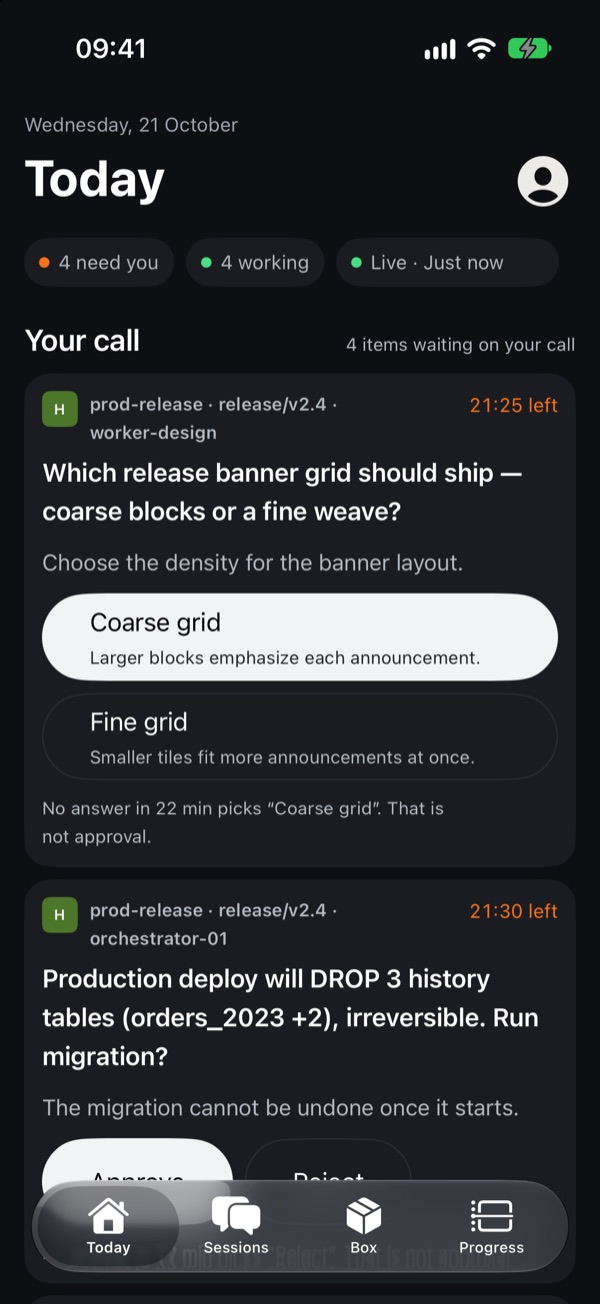
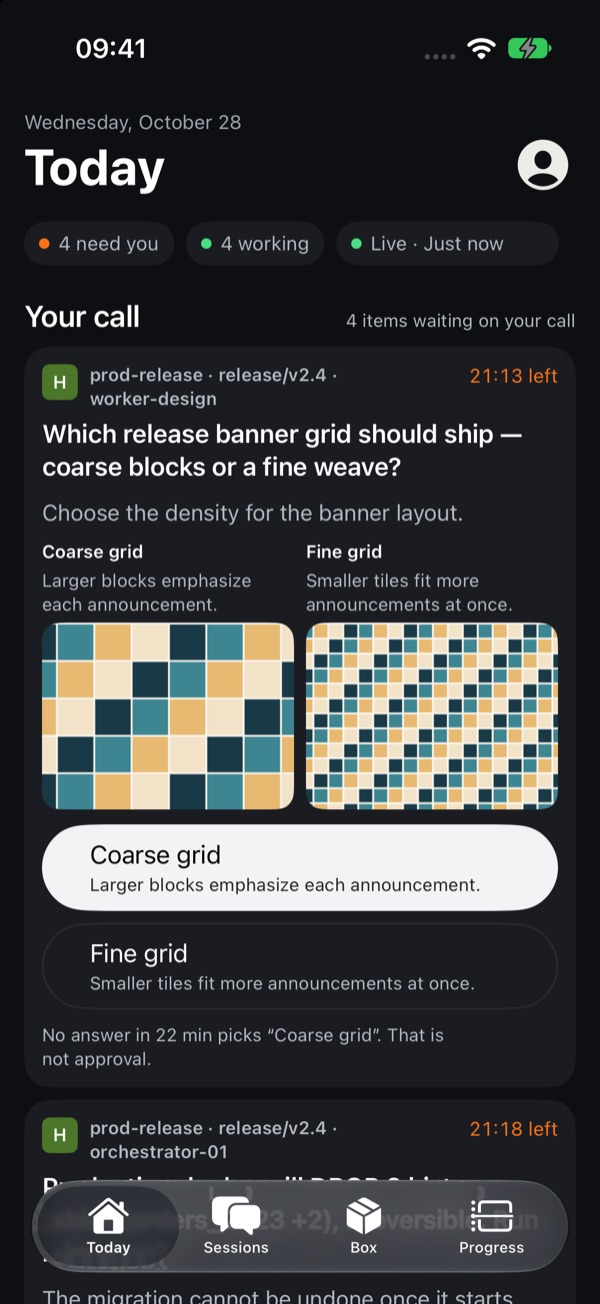
fix(site): anonymize attribution and show native decisions

diff --git a/site/zh/index.html b/site/zh/index.html
@@ -48,7 +48,9 @@
           <div class="phone">
             <picture>
               <source srcset="/assets/shots/home-dark.jpg" media="(prefers-color-scheme: dark)">
-              <img src="/assets/shots/home-light.jpg" width="600" height="1304" fetchpriority="high" alt="iPhone 上的 HiBoss“今天”页面：有四件事等你处理，一个智能体在问该上线哪种横幅网格，附两个选项和倒计时。">
+              <img src="/assets/shots/home-light.jpg" width="600" height="1304"
+                  fetchpriority="high"
+                  alt="iPhone 今日决策：两种网格图片、每项描述，以及默认选择 Coarse grid 的超时提示。">
             </picture>
           </div>
         </div>
@@ -66,7 +68,7 @@
         <article class="feature">
           <div>
             <h3>点一下就能做决定</h3>
-            <p class="muted">智能体提问时带上选项、背景和可选的截止时间。你直接在卡片上回答，最先给出的答案在所有设备上同时生效。</p>
+            <p class="muted">智能体提问时可以为选项附上图片和描述，并指定默认项与截止时间。你直接在卡片上比较、回答，最先给出的答案在所有设备上同时生效。</p>
             <ul>
               <li>每个问题都留在所属会话里，项目、分支、机器一目了然。</li>
               <li>到点没回复时可以自动选默认项，让工作继续；HiBoss 会标明这是默认项，绝不算你的批准。</li>
@@ -77,7 +79,9 @@
             <div class="phone small">
               <picture>
                 <source srcset="/assets/shots/session-dark.jpg" media="(prefers-color-scheme: dark)">
-                <img src="/assets/shots/session-light.jpg" width="600" height="1304" loading="lazy" alt="prod-release 会话记录：智能体待回答的问题、回答按钮和回复输入框。">
+                <img src="/assets/shots/session-light.jpg" width="600" height="1304"
+                  loading="lazy"
+                  alt="会话中的待决策消息：两种网格的图片、描述，以及默认选项和倒计时。">
               </picture>
             </div>
           </div>
@@ -141,6 +145,26 @@
             </div>
           </div>
         </article>
+      </div>
+    </section>
+
+    <section class="section" id="mac" aria-labelledby="mac-title">
+      <div class="wrap mac-showcase">
+        <div>
+          <p class="eyebrow">Mac 刘海</p>
+          <h2 id="mac-title">在 Mac 刘海，直接拍板</h2>
+          <p class="lead">下一件需要你决定的事，出现在屏幕顶部。看清每个选项的描述和默认项，直接回复，无需打开主窗口。</p>
+          <p class="muted">可以点选，也可以用自己的话回复。答案与 iPhone 同步。</p>
+        </div>
+        <figure>
+          <picture>
+            <source srcset="/assets/shots/mac-island-dark.jpg" media="(prefers-color-scheme: dark)">
+            <img class="island-shot" src="/assets/shots/mac-island-light.jpg"
+              width="840" height="592" loading="lazy"
+              alt="Mac 刘海上的 HiBoss 决策区：Sidebar 和 Tabs 各有描述，Sidebar 标记为默认项，下方可输入自定义回复。">
+          </picture>
+          <figcaption>HiBoss Mac 版 · 选项描述、默认标记和自定义回复，都在刘海下方。</figcaption>
+        </figure>
       </div>
     </section>
 

diff --git a/site/index.html b/site/index.html
@@ -47,7 +47,9 @@
           <div class="phone">
             <picture>
               <source srcset="/assets/shots/home-dark.jpg" media="(prefers-color-scheme: dark)">
-              <img src="/assets/shots/home-light.jpg" width="600" height="1304" fetchpriority="high" alt="HiBoss on iPhone, Today screen: four items need you, and an agent asks which banner grid should ship, with two options and a countdown.">
+              <img src="/assets/shots/home-light.jpg" width="600" height="1304"
+                  fetchpriority="high"
+                  alt="iPhone Today: image options, descriptions and Coarse grid as the timeout default.">
             </picture>
           </div>
         </div>
@@ -65,7 +67,8 @@
         <article class="feature">
           <div>
             <h3>Decisions you can answer in one tap</h3>
-            <p class="muted">An agent asks with options, context and an optional deadline. You answer from the card, and the first answer wins on every device.</p>
+            <p class="muted">Your agent brings options, images, a description for each choice and an optional
+              deadline. Answer right on the card; the first answer wins across devices.</p>
             <ul>
               <li>Each question stays in its session thread, with project, branch and machine.</li>
               <li>A deadline can pick a default so work can move on. HiBoss marks it as a default, never as your approval.</li>
@@ -76,7 +79,9 @@
             <div class="phone small">
               <picture>
                 <source srcset="/assets/shots/session-dark.jpg" media="(prefers-color-scheme: dark)">
-                <img src="/assets/shots/session-light.jpg" width="600" height="1304" loading="lazy" alt="A session transcript for prod-release: the agent's pending questions with answer buttons and a reply field.">
+                <img src="/assets/shots/session-light.jpg" width="600" height="1304"
+                  loading="lazy"
+                  alt="A session decision with images, option descriptions and a timeout default.">
               </picture>
             </div>
           </div>
@@ -140,6 +145,30 @@
             </div>
           </div>
         </article>
+      </div>
+    </section>
+
+    <section class="section" id="mac" aria-labelledby="mac-title">
+      <div class="wrap mac-showcase">
+        <div>
+          <p class="eyebrow">Mac Island</p>
+          <h2 id="mac-title">Decide from your Mac’s notch</h2>
+          <p class="lead">The next decision appears at the top of your screen. Read each option’s description,
+            see which one is the default, and answer without opening the main window.</p>
+          <p class="muted">Choose an option or reply in your own words. Your answer stays in sync with your
+            iPhone.</p>
+        </div>
+        <figure>
+          <picture>
+            <source srcset="/assets/shots/mac-island-dark.jpg" media="(prefers-color-scheme: dark)">
+            <img class="island-shot" src="/assets/shots/mac-island-light.jpg"
+              width="840" height="592" loading="lazy"
+              alt="The Mac Island shows Sidebar and Tabs with descriptions, a default badge on Sidebar and a
+                reply field.">
+          </picture>
+          <figcaption>HiBoss for Mac · Descriptions, default choice and a custom reply, right at the
+            notch.</figcaption>
+        </figure>
       </div>
     </section>
 

diff --git a/site/privacy/index.html b/site/privacy/index.html
@@ -41,7 +41,7 @@
         <p class="eyebrow">Your data, your server</p>
         <h1>Privacy</h1>
         <p class="lead">HiBoss connects to a server you choose. This policy explains what the iPhone and Mac apps, the CLI and the MCP plugin handle, and where that information goes.</p>
-        <p class="doc-meta">HiBoss apps, CLI and MCP plugin · Published by Ming Sun · Last updated October 21, 2026</p>
+        <p class="doc-meta">HiBoss apps, CLI and MCP plugin · Last updated October 21, 2026</p>
 
         <h2 id="connect">How HiBoss connects</h2>
         <p>The apps have no default hosted account. You connect to a HiBoss server by pairing with a one-time code, or by entering a server URL and Boss Token. The apps send authentication requests to that server. The iPhone app stores the server URL in device settings and the connection token in the iOS Keychain. Pairing can also create a signing key in the device's Secure Enclave.</p>

diff --git a/site/assets/site.css b/site/assets/site.css
@@ -117,6 +117,17 @@ pre .c { color: #8b949e; }
   .feature:nth-child(even) .feature-media { order: -1; }
 }
 
+/* Native Mac Island showcase */
+.mac-showcase { display: grid; gap: 40px; align-items: center; }
+.mac-showcase figure { margin: 0; min-width: 0; }
+.island-shot { width: 100%; max-width: 560px; margin: 0 auto; box-shadow: var(--shadow);
+  border-radius: 0 0 28px 28px; }
+.mac-showcase figcaption { margin-top: 18px; color: var(--muted); font-size: 0.9rem;
+  text-align: center; }
+@media (min-width: 860px) {
+  .mac-showcase { grid-template-columns: 0.9fr 1.1fr; gap: 64px; }
+}
+
 /* Flow diagram */
 .flow { display: grid; gap: 16px; list-style: none; padding: 0; margin: 0 0 32px; counter-reset: step; }
 .flow li { background: var(--surface); border: 1px solid var(--line); border-radius: var(--radius);

diff --git a/site/partials/footer-en.html b/site/partials/footer-en.html
@@ -3,7 +3,7 @@ Shared en site footer; expanded by render.py during the static build.
 -->
   <footer class="site-footer">
     <div class="wrap">
-      <p>© 2026 Ming Sun · HiBoss is open source under the MIT License.</p>
+      <p>© 2026 HiBoss · HiBoss is open source under the MIT License.</p>
       <nav aria-label="Footer">
         <ul>
           <li><a href="/download/">Download</a></li>

diff --git a/site/partials/footer-zh.html b/site/partials/footer-zh.html
@@ -3,7 +3,7 @@ Shared zh site footer; expanded by render.py during the static build.
 -->
   <footer class="site-footer">
     <div class="wrap">
-      <p>© 2026 Ming Sun · HiBoss 以 MIT 许可开源。</p>
+      <p>© 2026 HiBoss · HiBoss 以 MIT 许可开源。</p>
       <nav aria-label="页脚">
         <ul>
           <li><a href="/zh/download/">下载</a></li>

diff --git a/site/test_build.py b/site/test_build.py
@@ -48,7 +48,7 @@ class SiteBuildTests(unittest.TestCase):
         assets = {'install.sh', 'robots.txt', 'sitemap.xml', 'updates/macos/appcast.xml',
                   'assets/site.css', 'assets/icon.png', 'assets/apple-touch-icon.png', 'assets/og.jpg'}
         assets.update(f'assets/shots/{screen}-{theme}.jpg'
-                      for screen in ['home', 'session', 'panels', 'progress', 'box']
+                      for screen in ['home', 'session', 'panels', 'progress', 'box', 'mac-island']
                       for theme in ['light', 'dark'])
         actual = {str(path.relative_to(self.output)) for path in self.output.rglob('*') if path.is_file()}
         self.assertEqual(actual, set(PAGES) | assets)
@@ -79,6 +79,26 @@ class SiteBuildTests(unittest.TestCase):
                         target = self.output / (
                             path + 'index.html' if path.endswith('/') or not path else path)
                         self.assertTrue(target.is_file(), f'{page}: missing {reference}')
+
+    def test_public_pages_use_product_identity(self) -> None:
+        for page in PAGES:
+            with self.subTest(page=page):
+                text = (self.output / page).read_text(encoding='utf-8')
+                self.assertIn('© 2026 HiBoss', text)
+        privacy = (self.output / 'privacy/index.html').read_text(encoding='utf-8')
+        self.assertNotIn('Published by', privacy)
+
+    def test_home_pages_show_mac_decisions_in_both_appearances(self) -> None:
+        for page in ['index.html', 'zh/index.html']:
+            with self.subTest(page=page):
+                parser = References()
+                parser.feed((self.output / page).read_text(encoding='utf-8'))
+                images = [attrs for attrs in parser.links if attrs.get('class') == 'island-shot']
+                self.assertEqual(len(images), 1)
+                self.assertEqual(images[0].get('src'), '/assets/shots/mac-island-light.jpg')
+                self.assertTrue(images[0].get('alt'))
+                self.assertTrue(any(attrs.get('srcset') == '/assets/shots/mac-island-dark.jpg'
+                                    for attrs in parser.links))
 
     def test_build_rejects_missing_relative_and_existing_outputs(self) -> None:
         before = sorted(path.relative_to(self.output) for path in self.output.rglob('*'))

diff --git a/site/README.md b/site/README.md
@@ -7,7 +7,13 @@ This static site serves `hiboss.org`: the home page, download page, self-host an
 - Pages include the shared header and footer in `partials/`, with separate English and Chinese
   fragments. `render.py` sets each page's current navigation link and language counterpart at build time.
 - The App Store link is a single marked line in `download/index.html` and `zh/download/index.html` (`APP STORE SWITCH`).
-- Screenshots in `assets/shots/` come from the iOS app's demo mode on an iPhone simulator, at 600 px wide, in light and dark variants. Keep every image under 400 KB.
+- iPhone screenshots in `assets/shots/` come from the iOS app's demo mode, at 600 px wide,
+  in light and dark variants. Decision captures enable `HIBOSS_DEMO_OPTION_MEDIA=1` so image
+  previews, option descriptions and the default choice are visible together.
+- `mac-island-*.jpg` captures the native Mac Island using
[1 lines of base64/hex data omitted]
+  `HIBOSS_V4_SNAPSHOTS` set to the capture directory. The Island stays dark in both appearances.
+  Keep every image under 400 KB.
 - A new file must also be added to the list in `build.sh`.
 - `404.html` at the root is what Cloudflare Pages serves, with status 404, for an unknown path.
 - `updates/macos/appcast.xml` is the Mac app's Sparkle feed; `macos/scripts/release.sh` rewrites it for each release (`macos/RELEASE.md`).
